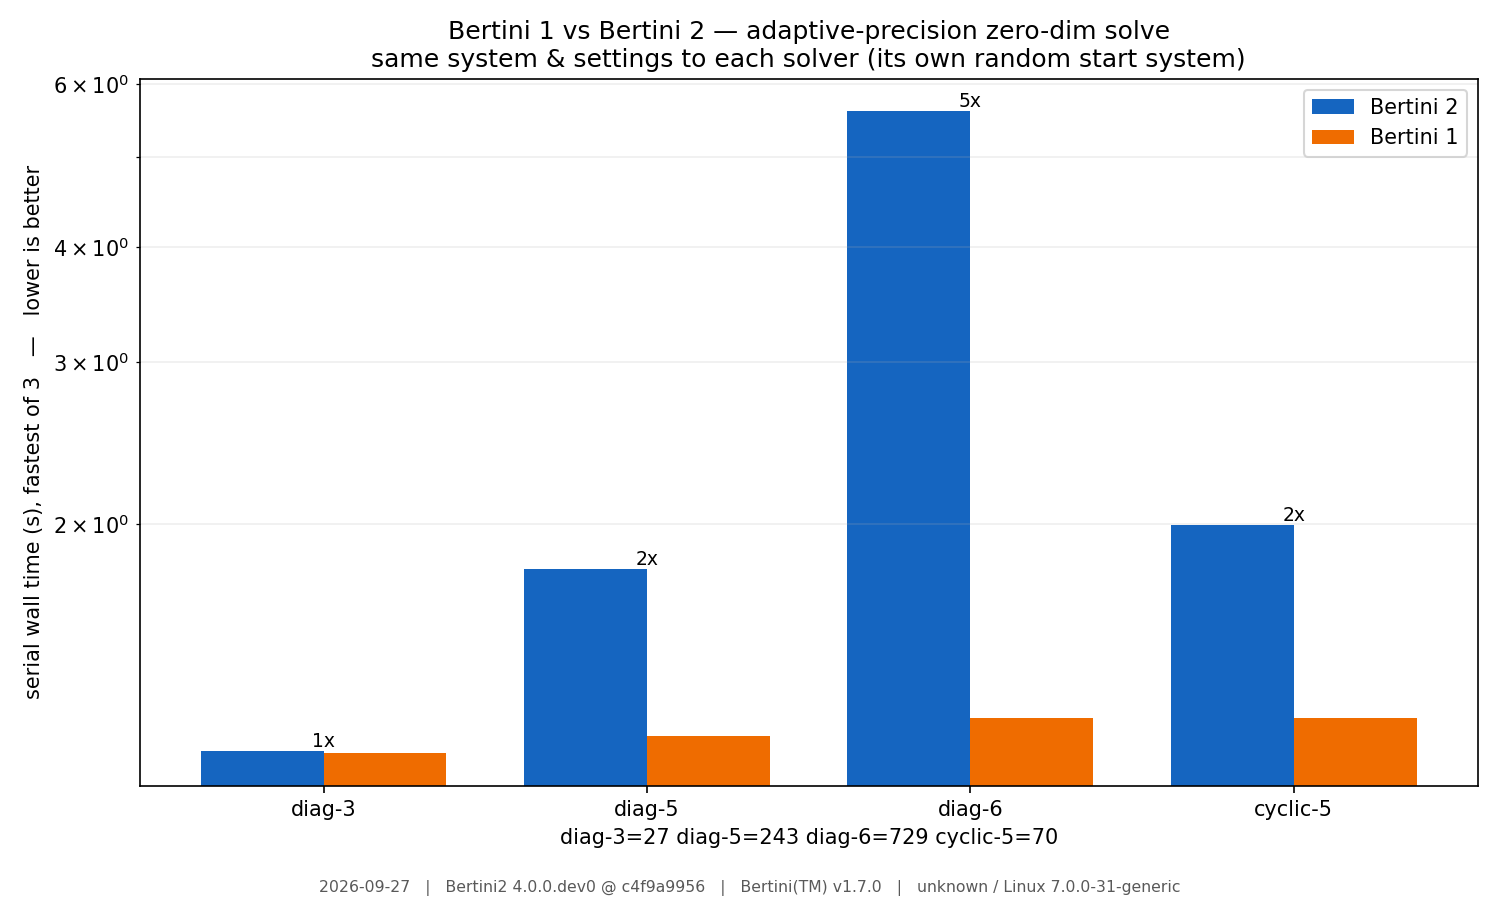
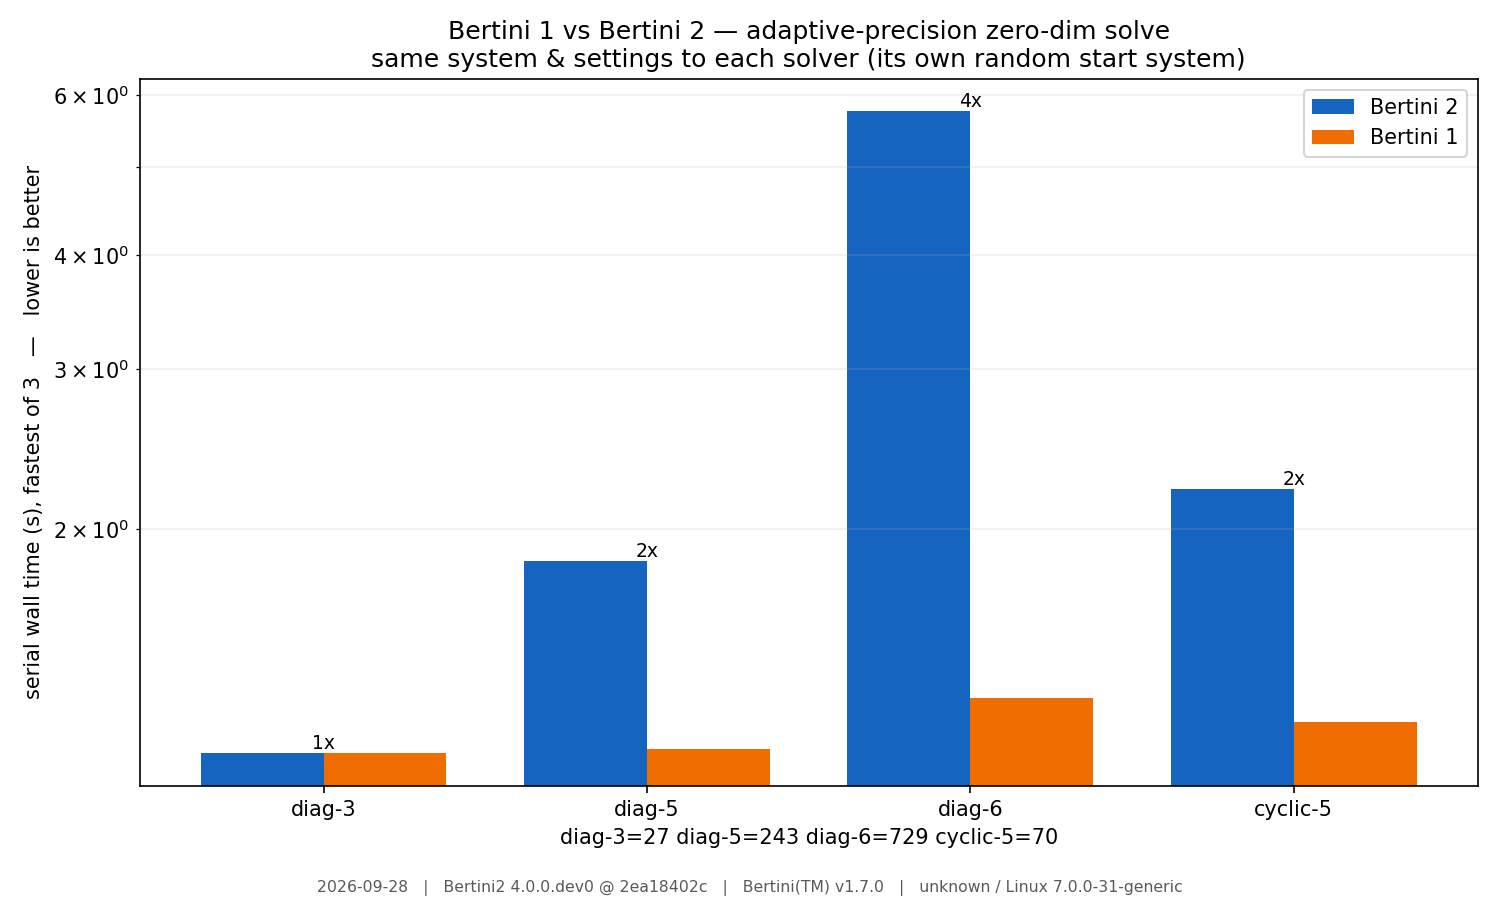
the Bertini 1 vs Bertini 2 timing, rerun, and the prose that reads it
Rerun on 2026-09-28 (bertini2 4.0.0.dev0 @ 2ea18402c, Bertini 1.7.0): diag-3 1.13 s vs 1.13 s, diag-5 1.85 vs 1.15, diag-6 5.76 vs 1.30, cyclic-5 2.21 vs 1.23, the same solution counts throughout.  The prose said the gap ran to ~25x on cyclic-5 and blamed an endgame stall on the total-degree start system; cyclic-5 is now 1.8x, below the diagonal family's 4.4x at diag-6, and the stall paragraph no longer describes what the figure shows.

diff --git a/python/docs/source/tutorials/performance_benchmarking/bertini1_vs_bertini2_timing/index.rst b/python/docs/source/tutorials/performance_benchmarking/bertini1_vs_bertini2_timing/index.rst
@@ -38,10 +38,10 @@ Run it (needs ``matplotlib``; Bertini 1 optional)::
 
 How to read it (for the run shown — see the caption for date/versions/machine):
 
-* Bertini 2 is still **slower** than Bertini 1 on these problems — from a small factor on the tiny
-  diagonal system to ~25× on cyclic-5.  This is honest: Bertini 1 is hand-tuned C with its own linear
-  algebra; Bertini 2 trades constant-factor speed for a templated, observable, arbitrary-precision
-  design.
+* Bertini 2 is still **slower** than Bertini 1 on most of these problems — level on the tiny
+  diagonal system, up to about 4.4× on ``diag-6``.  This is honest: Bertini 1 is hand-tuned C
+  with its own linear algebra; Bertini 2 trades constant-factor speed for a templated,
+  observable, arbitrary-precision design.
 * The diagonal family ``diag-3/5/6`` is **well-conditioned** (every path stays in double precision),
   so its growing slowdown is pure **per-step tracking overhead** scaling with problem size — a
   standing performance lever, independent of the endgame.
@@ -52,12 +52,9 @@ How to read it (for the run shown — see the caption for date/versions/machine)
   system — cyclic-5 in adaptive precision is now ~Bertini-1 speed (~0.4 s serial, with **0 of 70**
   finite paths needing to escalate above double).
 
-  The bar shown here is **larger** than that, because this benchmark hands both solvers a
-  **total-degree** classic input, and that start system currently makes Bertini 2's endgame *stall*
-  near :math:`t = 0` (it takes far too many tiny steps).  The run stays mostly in double — so the
-  per-step speedup does apply — but the step *count* is the problem.  That stall, not precision and
-  not the endgame's arithmetic, is the current top lever for this particular path, and is tracked
-  separately from this endgame work.
+  This benchmark hands both solvers a **total-degree** classic input instead, and on it Bertini 2
+  takes about 1.8× Bertini 1's time on cyclic-5 — well below the diagonal family's 4.4× at
+  ``diag-6``.
 
 Both solvers report the **same solution counts** (shown under the bars), so this is a like-for-like
 comparison, not a speed/accuracy trade.
